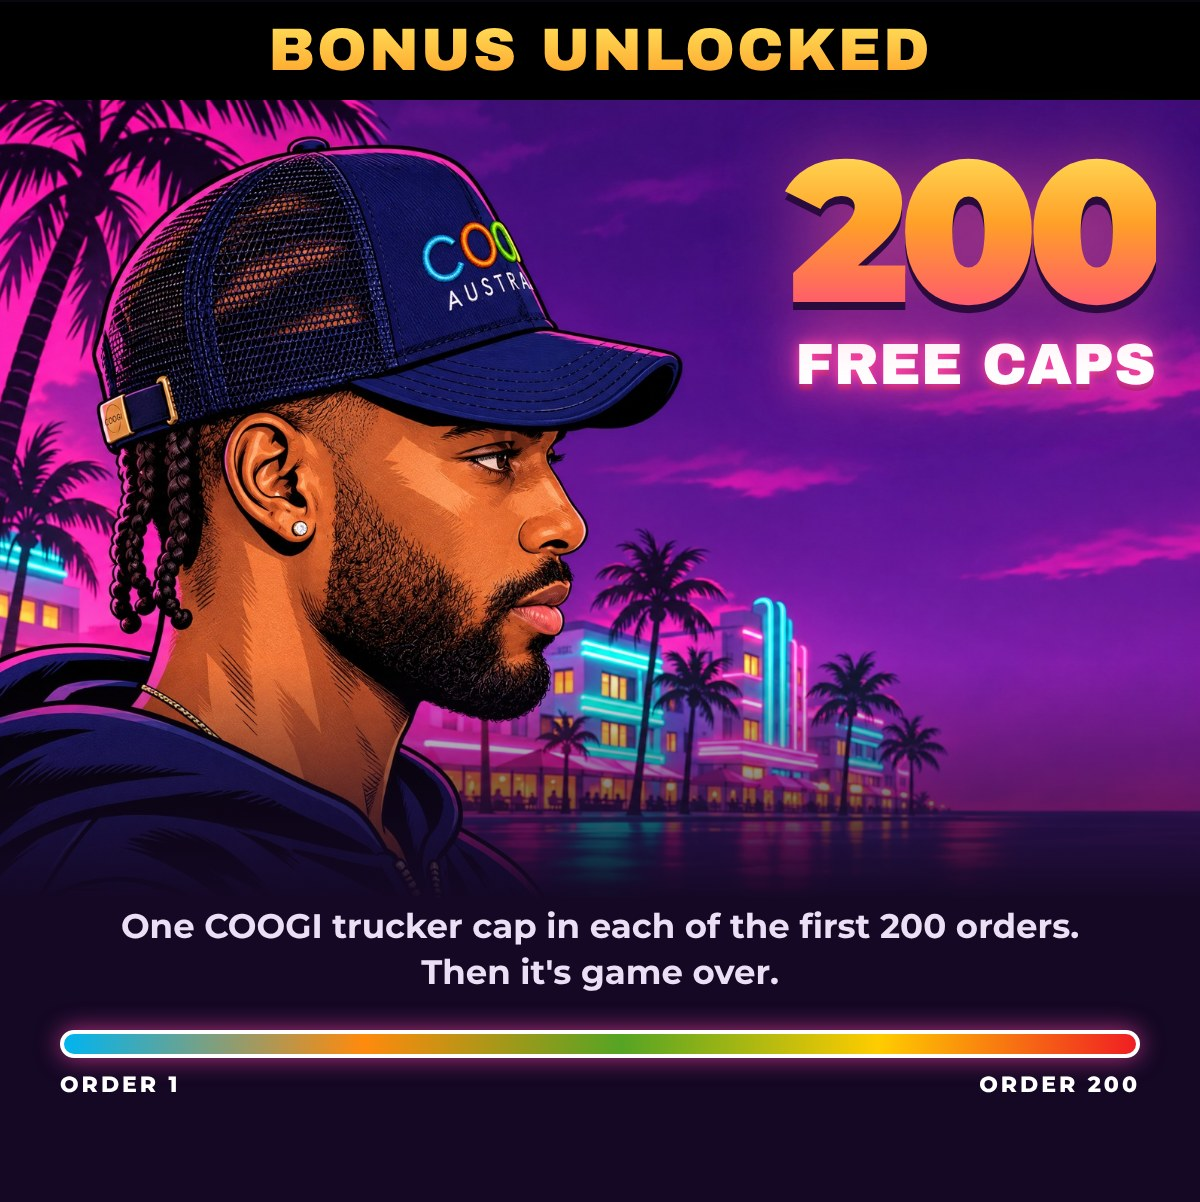
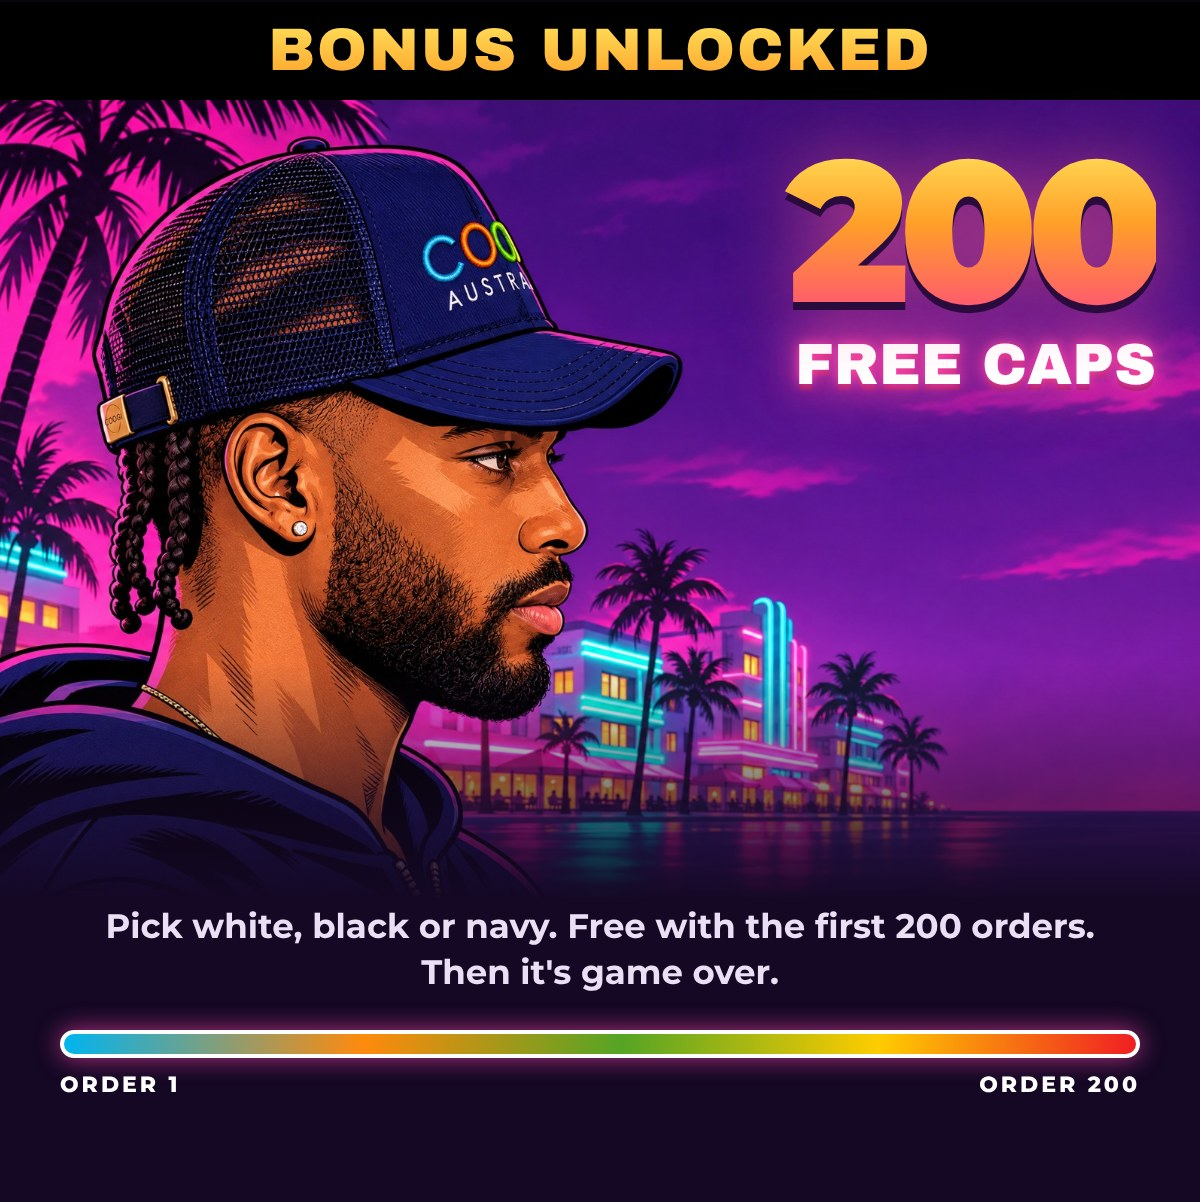
BF emails: customer picks cap colour and adds it to cart; link cap sections to hats collection
Claude-Session: https://claude.ai/code/session_01Q3QB38NfAAMKubYn8Y5egB

Changed region(s): [[0.0925, 0.7388, 0.925, 0.8003]]

diff --git a/email/bf-25-caps-c-colorblock/bf_25_caps_c_colorblock_email.html b/email/bf-25-caps-c-colorblock/bf_25_caps_c_colorblock_email.html
@@ -1,9 +1,9 @@
 <table role="presentation" width="100%" cellpadding="0" cellspacing="0" border="0" bgcolor="#0a0a0a" style="width:100%;max-width:600px;margin:0 auto;background:#0a0a0a;">
 <tr><td bgcolor="#0a0a0a" style="padding:0;font-size:0;line-height:0;"><a href="https://coogi.com/collections/all"><img src="https://raw.githubusercontent.com/ShaneClawAgent/coogi-ad-assets/main/email/bf-25-caps-c-colorblock/01_c1.jpg" width="600" alt="COOGI Australia. Black Friday starts 12AM ET Monday Nov 23: 25% off everything, plus a free cap for the first 200 orders." style="display:block;width:100%;max-width:600px;height:auto;border:0;"></a></td></tr>
-<tr><td bgcolor="#0a0a0a" style="padding:0;font-size:0;line-height:0;"><a href="https://coogi.com/collections/all"><img src="https://raw.githubusercontent.com/ShaneClawAgent/coogi-ad-assets/main/email/bf-25-caps-c-colorblock/02_c2.jpg" width="600" alt="Your Black Friday order: anything on coogi.com 25% off, plus a COOGI trucker cap free for the first 200 orders." style="display:block;width:100%;max-width:600px;height:auto;border:0;"></a></td></tr>
+<tr><td bgcolor="#0a0a0a" style="padding:0;font-size:0;line-height:0;"><a href="https://coogi.com/collections/all"><img src="https://raw.githubusercontent.com/ShaneClawAgent/coogi-ad-assets/main/email/bf-25-caps-c-colorblock/02_c2.jpg" width="600" alt="Your Black Friday order: anything on coogi.com 25% off, plus a COOGI trucker cap in the color you pick, free for the first 200 orders." style="display:block;width:100%;max-width:600px;height:auto;border:0;"></a></td></tr>
 <tr><td bgcolor="#0a0a0a" align="center" style="padding:20px 30px 0;"><table role="presentation" cellpadding="0" cellspacing="0" border="0" align="center" style="width:100%;max-width:440px;"><tr><td align="center" bgcolor="#ffcc00" style="border-radius:40px;background-color:#ffcc00;"><a href="https://coogi.com/collections/all" style="display:block;padding:17px 20px;font-family:'DM Sans',Arial,Helvetica,sans-serif;font-size:20px;font-weight:bold;letter-spacing:-0.2px;color:#111111;text-decoration:none;">Start My Order &rarr;</a></td></tr></table></td></tr>
 <tr><td bgcolor="#0a0a0a" style="padding:0;font-size:0;line-height:0;"><a href="https://coogi.com/collections/all"><img src="https://raw.githubusercontent.com/ShaneClawAgent/coogi-ad-assets/main/email/bf-25-caps-c-colorblock/03_c3.jpg" width="600" alt="Pick your piece, all 25% off: crewnecks, knit jackets, crewneck and joggers, jersey sets, dresses and bags, hoodies and sets." style="display:block;width:100%;max-width:600px;height:auto;border:0;"></a></td></tr>
-<tr><td bgcolor="#0a0a0a" style="padding:0;font-size:0;line-height:0;"><a href="https://coogi.com/collections/all"><img src="https://raw.githubusercontent.com/ShaneClawAgent/coogi-ad-assets/main/email/bf-25-caps-c-colorblock/04_c4.jpg" width="600" alt="200 free caps total, one in each of the first 200 orders. 25% off everything, 200 free caps, midnight." style="display:block;width:100%;max-width:600px;height:auto;border:0;"></a></td></tr>
+<tr><td bgcolor="#0a0a0a" style="padding:0;font-size:0;line-height:0;"><a href="https://coogi.com/collections/hats"><img src="https://raw.githubusercontent.com/ShaneClawAgent/coogi-ad-assets/main/email/bf-25-caps-c-colorblock/04_c4.jpg" width="600" alt="200 free caps. Add a white, black or navy cap to your cart: free at checkout for the first 200 orders. 25% off everything, 200 free caps, midnight." style="display:block;width:100%;max-width:600px;height:auto;border:0;"></a></td></tr>
 <tr><td bgcolor="#0a0a0a" align="center" style="padding:0 30px 8px;"><table role="presentation" cellpadding="0" cellspacing="0" border="0" align="center" style="width:100%;max-width:440px;"><tr><td align="center" bgcolor="#ffcc00" style="border-radius:40px;background-color:#ffcc00;"><a href="https://coogi.com/collections/all" style="display:block;padding:17px 20px;font-family:'DM Sans',Arial,Helvetica,sans-serif;font-size:20px;font-weight:bold;letter-spacing:-0.2px;color:#111111;text-decoration:none;">Shop 25% Off + Free Cap &rarr;</a></td></tr></table></td></tr>
-<tr><td bgcolor="#0a0a0a" style="padding:0;font-size:0;line-height:0;"><a href="https://coogi.com/collections/all"><img src="https://raw.githubusercontent.com/ShaneClawAgent/coogi-ad-assets/main/email/bf-25-caps-c-colorblock/05_c5.jpg" width="600" alt="25% off applied automatically at checkout. Some exclusions apply. One free cap per order for the first 200 orders, while supplies last." style="display:block;width:100%;max-width:600px;height:auto;border:0;"></a></td></tr>
+<tr><td bgcolor="#0a0a0a" style="padding:0;font-size:0;line-height:0;"><a href="https://coogi.com/collections/all"><img src="https://raw.githubusercontent.com/ShaneClawAgent/coogi-ad-assets/main/email/bf-25-caps-c-colorblock/05_c5.jpg" width="600" alt="25% off applied automatically at checkout. Some exclusions apply. Add one trucker cap to your cart with any purchase: free at checkout for the first 200 orders, while supplies last." style="display:block;width:100%;max-width:600px;height:auto;border:0;"></a></td></tr>
 </table>

diff --git a/email/bf-25-caps-vice/bf_25_caps_vice_email.html b/email/bf-25-caps-vice/bf_25_caps_vice_email.html
@@ -2,8 +2,8 @@
 <tr><td bgcolor="#140824" style="padding:0;font-size:0;line-height:0;"><a href="https://coogi.com/collections/all"><img src="https://raw.githubusercontent.com/ShaneClawAgent/coogi-ad-assets/main/email/bf-25-caps-vice/01_v1.jpg" width="600" alt="COOGI Black Friday: 25% off everything sitewide, plus a free cap for the first 200 orders. Starts Monday Nov 23 at 12AM ET." style="display:block;width:100%;max-width:600px;height:auto;border:0;"></a></td></tr>
 <tr><td bgcolor="#140824" align="center" style="padding:6px 30px 34px;"><table role="presentation" cellpadding="0" cellspacing="0" border="0" align="center" style="width:100%;max-width:440px;"><tr><td align="center" bgcolor="#FF46AA" style="border-radius:40px;background-color:#FF46AA;"><a href="https://coogi.com/collections/all" style="display:block;padding:17px 20px;font-family:'DM Sans',Arial,Helvetica,sans-serif;font-size:20px;font-weight:bold;letter-spacing:-0.2px;color:#ffffff;text-decoration:none;">SHOP 25% OFF &rarr;</a></td></tr></table></td></tr>
 <tr><td bgcolor="#140824" style="padding:0;font-size:0;line-height:0;"><a href="https://coogi.com/collections/all"><img src="https://raw.githubusercontent.com/ShaneClawAgent/coogi-ad-assets/main/email/bf-25-caps-vice/02_v2.jpg" width="600" alt="Choose your character, everything 25% off: knit jackets, crewneck and joggers, dresses and bags, crewnecks." style="display:block;width:100%;max-width:600px;height:auto;border:0;"></a></td></tr>
-<tr><td bgcolor="#140824" style="padding:0;font-size:0;line-height:0;"><a href="https://coogi.com/collections/all"><img src="https://raw.githubusercontent.com/ShaneClawAgent/coogi-ad-assets/main/email/bf-25-caps-vice/03_v3.jpg" width="600" alt="Bonus unlocked: 200 free COOGI trucker caps, one in each of the first 200 orders." style="display:block;width:100%;max-width:600px;height:auto;border:0;"></a></td></tr>
-<tr><td bgcolor="#140824" style="padding:0;font-size:0;line-height:0;"><a href="https://coogi.com/collections/all"><img src="https://raw.githubusercontent.com/ShaneClawAgent/coogi-ad-assets/main/email/bf-25-caps-vice/04_v4.jpg" width="600" alt="Your mission: 1. Pick any piece. 2. Cap added at checkout. 3. Both ship together. 25% off everything, 200 free caps, midnight." style="display:block;width:100%;max-width:600px;height:auto;border:0;"></a></td></tr>
+<tr><td bgcolor="#140824" style="padding:0;font-size:0;line-height:0;"><a href="https://coogi.com/collections/hats"><img src="https://raw.githubusercontent.com/ShaneClawAgent/coogi-ad-assets/main/email/bf-25-caps-vice/03_v3.jpg" width="600" alt="Bonus unlocked: 200 free COOGI trucker caps. Pick white, black or navy, free with the first 200 orders." style="display:block;width:100%;max-width:600px;height:auto;border:0;"></a></td></tr>
+<tr><td bgcolor="#140824" style="padding:0;font-size:0;line-height:0;"><a href="https://coogi.com/collections/hats"><img src="https://raw.githubusercontent.com/ShaneClawAgent/coogi-ad-assets/main/email/bf-25-caps-vice/04_v4.jpg" width="600" alt="Your mission: 1. Pick any piece. 2. Add your cap to the cart. 3. The cap is free at checkout. 25% off everything, 200 free caps, midnight." style="display:block;width:100%;max-width:600px;height:auto;border:0;"></a></td></tr>
 <tr><td bgcolor="#140824" align="center" style="padding:0 30px 6px;"><table role="presentation" cellpadding="0" cellspacing="0" border="0" align="center" style="width:100%;max-width:440px;"><tr><td align="center" bgcolor="#FF46AA" style="border-radius:40px;background-color:#FF46AA;"><a href="https://coogi.com/collections/all" style="display:block;padding:17px 20px;font-family:'DM Sans',Arial,Helvetica,sans-serif;font-size:20px;font-weight:bold;letter-spacing:-0.2px;color:#ffffff;text-decoration:none;">START MISSION &rarr;</a></td></tr></table></td></tr>
-<tr><td bgcolor="#140824" style="padding:0;font-size:0;line-height:0;"><a href="https://coogi.com/collections/all"><img src="https://raw.githubusercontent.com/ShaneClawAgent/coogi-ad-assets/main/email/bf-25-caps-vice/05_v5.jpg" width="600" alt="25% off applied automatically at checkout. Some exclusions apply. One free cap per order for the first 200 orders, while supplies last." style="display:block;width:100%;max-width:600px;height:auto;border:0;"></a></td></tr>
+<tr><td bgcolor="#140824" style="padding:0;font-size:0;line-height:0;"><a href="https://coogi.com/collections/all"><img src="https://raw.githubusercontent.com/ShaneClawAgent/coogi-ad-assets/main/email/bf-25-caps-vice/05_v5.jpg" width="600" alt="25% off applied automatically at checkout. Some exclusions apply. Add one trucker cap to your cart with any purchase: free at checkout for the first 200 orders, while supplies last." style="display:block;width:100%;max-width:600px;height:auto;border:0;"></a></td></tr>
 </table>
